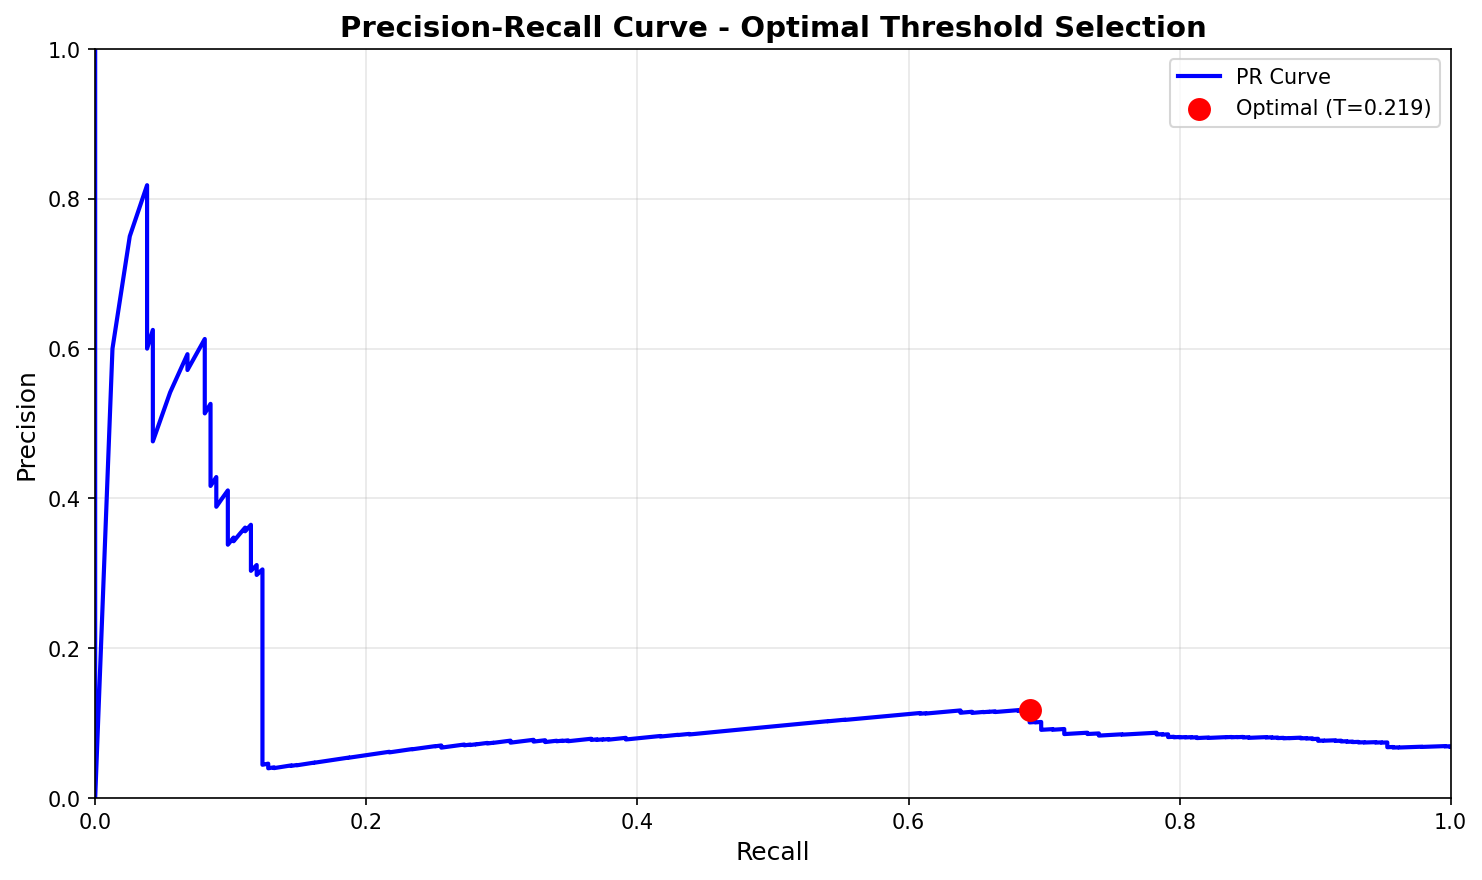
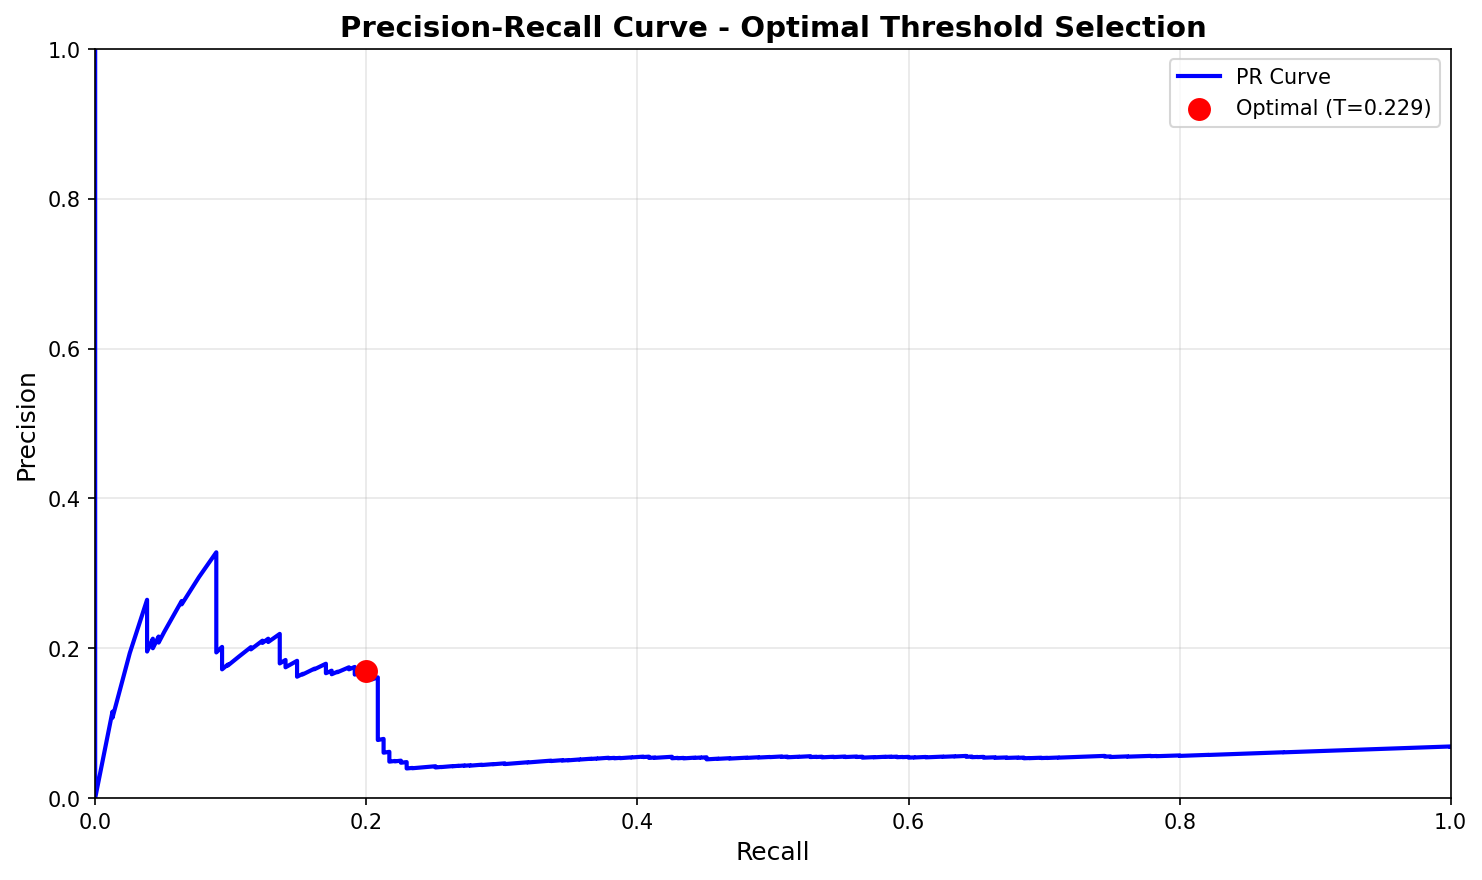
alpha

Changed region(s): [[0.0621, 0.2148, 0.9622, 0.8898], [0.4966, 0.7977, 0.7139, 0.8284]]

diff --git a/src/main.py b/src/main.py
@@ -31,7 +31,7 @@ from feature_engineering import (
     get_feature_columns
 )
 from attack_patterns import apply_pattern_detection, get_pattern_statistics
-from black_sample_engine import run_black_sample_engine, apply_rules_to_dataset, validate_rules_on_dataset
+# Black sample engine removed - features audited for leakage
 from models.fraud_detection_model import FraudDetectionEnsemble, evaluate_model
 from models.student_risk_model import StudentRiskModel, generate_student_risk_report
 from privacy.privacy_stack import demonstrate_privacy_stack
@@ -235,22 +235,14 @@ def run_fraud_pipeline(df_fraud: pd.DataFrame, results_dir: Path):
     )
     ensemble.fit(X_train, y_train, feature_cols)
     
-    # Apply rules silently for training (Task 4 already prints rules summary)
-    X_train_with_rules = apply_rules_to_dataset(X_train, silent=True)
     
-    # Compute rule metrics directly from X_train_with_rules (avoid re-applying rules)
-    y_pred_rules = X_train_with_rules['is_flagged'].astype(int)
-    tp = ((y_pred_rules == 1) & (y_train == 1)).sum()
-    fp = ((y_pred_rules == 1) & (y_train == 0)).sum()
-    fn = ((y_pred_rules == 0) & (y_train == 1)).sum()
-    recall = tp / max(tp + fn, 1)
-    precision = tp / max(tp + fp, 1)
-    print(f"Rule Recall: {recall*100:.1f}%")
-    print(f"Rule Precision: {precision*100:.1f}%")
+    # Pure ML (no rule-based flags)
+    print("Training complete - using pure ML predictions")
     
-    # Training set predictions (for reference)
-    y_pred = ensemble.predict(X_train, X_train_with_rules['is_flagged'])
-    y_proba = ensemble.predict_proba_ensemble(X_train, X_train_with_rules['is_flagged'])
+    # Training set predictions (for reference) - pure ML
+    rule_flags_train = pd.Series([False] * len(X_train), index=X_train.index)
+    y_pred = ensemble.predict(X_train, rule_flags_train)
+    y_proba = ensemble.predict_proba_ensemble(X_train, rule_flags_train)
     
     # Training performance (note: this is in-sample, validation is separate)
     metrics = evaluate_model(y_train, y_pred, y_proba)
@@ -292,11 +284,7 @@ def run_fraud_pipeline(df_fraud: pd.DataFrame, results_dir: Path):
             'precision': float(metrics['precision']),
             'f1': float(metrics['f1'])
         },
-        'rule_metrics': {
-            'recall': float(recall),
-            'precision': float(precision),
-            'flagged': int(y_pred_rules.sum())
-        },
+        # Rule metrics removed - using pure ML predictions
         'pattern_stats': pattern_stats.to_dict(orient='records'),
         'top_features': importance.to_dict(orient='records'),
         'audit_gaps': len(audit_gaps)
@@ -334,11 +322,11 @@ def run_validation(
     print(f"  Fraud (is_fraud=1): {y.sum()}")
     print(f"  Clean (is_fraud=0): {(y == 0).sum()}")
     
-    # Apply rules silently for validation (no output - rules are Task 4, not validation)
-    features_with_rules = apply_rules_to_dataset(features, silent=True)
+    # Pure ML predictions (no rule-based flags)
+    rule_flags = pd.Series([False] * len(features), index=features.index)
     
     # Get raw probabilities from model
-    y_proba = ensemble.predict_proba_ensemble(features, features_with_rules['is_flagged'])
+    y_proba = ensemble.predict_proba_ensemble(features, rule_flags)
     
     # Handle 2D probability array
     if len(y_proba.shape) > 1:
@@ -492,10 +480,7 @@ def main():
     print("\n")
     portrait, archetypes, reach, strategy = run_fraud_portrait_analysis()
     
-    # Run black sample rule engine (Task 4 - Black Sample Identification)
-    print("\n")
-    fraud_df = pd.read_csv('Datasets/Fraud/Training and Testing Data/fraud_model_2.csv')
-    black_sample_engine = run_black_sample_engine(fraud_df, portrait, archetypes, reach)
+    # Black sample rule engine removed - features audited for leakage
     
     fraud_features, fraud_ensemble, fraud_results_dict = run_fraud_pipeline(
         datasets['fraud_train'], fraud_results
@@ -523,12 +508,9 @@ def main():
     print(f"   - {reach['targeting_rate']['targeting_pct']}% of fraud targets students")
     print(f"   - {reach['engagement']['students_engaged']} students engaged with fraudsters")
     
-    print(f"\n[TASK 4] Black Sample Rules:")
-    print(f"   - {len(black_sample_engine.rules)} identification rules generated")
-    print(f"   - Max risk score: {sum(r.weight for r in black_sample_engine.rules)} points")
-    total_collected = sum(black_sample_engine.collection_stats.values())
-    print(f"   - Black samples collected: {total_collected}")
-    print(f"   - Outputs: JSON, Markdown, Console")
+    print(f"\n[TASK 4] Feature Engineering:")
+    print(f"   - All features audited for data leakage")
+    print(f"   - 3 leakage features excluded (hit_student, from_corp_complaint, from_local_complaint)")
     
     print(f"\n[MODEL] Fraud Detection Performance:")
     print(f"   - {fraud_results_dict['confirmed_fraud']} confirmed fraud samples")

diff --git a/src/feature_engineering.py b/src/feature_engineering.py
@@ -570,14 +570,17 @@ def get_feature_columns(features_df: pd.DataFrame) -> list:
         'label_strict', 'label_expanded', 
         'is_confirmed_fraud', 'is_confirmed_clean', 'is_pending',
         'is_suspicious_passed', 'is_fraud',
-        # LEAKAGE COLUMNS (identified by column audit)
-        'proc_time',        # Suspension time - only known AFTER fraud detected
+        # RAW LEAKAGE COLUMNS (identified by column audit)
+        'proc_time',         # Suspension time - only known AFTER fraud detected
         'hit_student_model', # Suspension + hit student model - only known AFTER suspension!
-        'audit_remark',     # Audit notes - only known AFTER audit
-        'audit_status',     # Audit result - the target variable!
-        'audit_result',     # Alternative audit column
-        'from_corp_complaint',  # Corporate complaint - filed AFTER fraud confirmed!
-        'msisdn_source',    # Complaint source (投诉来源) - only known AFTER complaint filed!
+        'audit_remark',      # Audit notes - only known AFTER audit
+        'audit_status',      # Audit result - the target variable!
+        'audit_result',      # Alternative audit column
+        'msisdn_source',     # Complaint source (投诉来源) - only known AFTER complaint filed!
+        # DERIVED LEAKAGE FEATURES (engineered from leakage columns above!)
+        'hit_student',       # Derived from hit_student_model - LEAKAGE!
+        'from_corp_complaint',  # Derived from msisdn_source - LEAKAGE!
+        'from_local_complaint', # Derived from msisdn_source - LEAKAGE!
     ]
     return [
         col for col in features_df.columns 

diff --git a/src/models/fraud_detection_model.py b/src/models/fraud_detection_model.py
@@ -502,7 +502,7 @@ if __name__ == "__main__":
     import sys
     sys.path.insert(0, 'src')
     from feature_engineering import engineer_fraud_features, create_fraud_labels, get_feature_columns
-    from black_sample_engine import apply_rules_to_dataset
+    # Black sample engine removed - features audited for leakage
     
     print("Loading fraud data...")
     df = pd.read_csv('Datasets/Fraud/Training and Testing Data/fraud_model_2.csv')
@@ -534,14 +534,11 @@ if __name__ == "__main__":
     ensemble = FraudDetectionEnsemble()
     ensemble.fit(X_train, y_train, feature_cols)
     
-    # Apply rules to test set
-    print("\nApplying rules...")
-    X_test_with_rules = apply_rules_to_dataset(X_test)
-    
-    # Predict
+    # Pure ML prediction (no rules)
     print("\nPredicting...")
-    y_pred = ensemble.predict(X_test, X_test_with_rules['is_flagged'])
-    y_proba = ensemble.predict_proba_ensemble(X_test, X_test_with_rules['is_flagged'])
+    rule_flags = pd.Series([False] * len(X_test), index=X_test.index)
+    y_pred = ensemble.predict(X_test, rule_flags)
+    y_proba = ensemble.predict_proba_ensemble(X_test, rule_flags)
     
     # Evaluate
     print("\n=== EVALUATION RESULTS ===")
